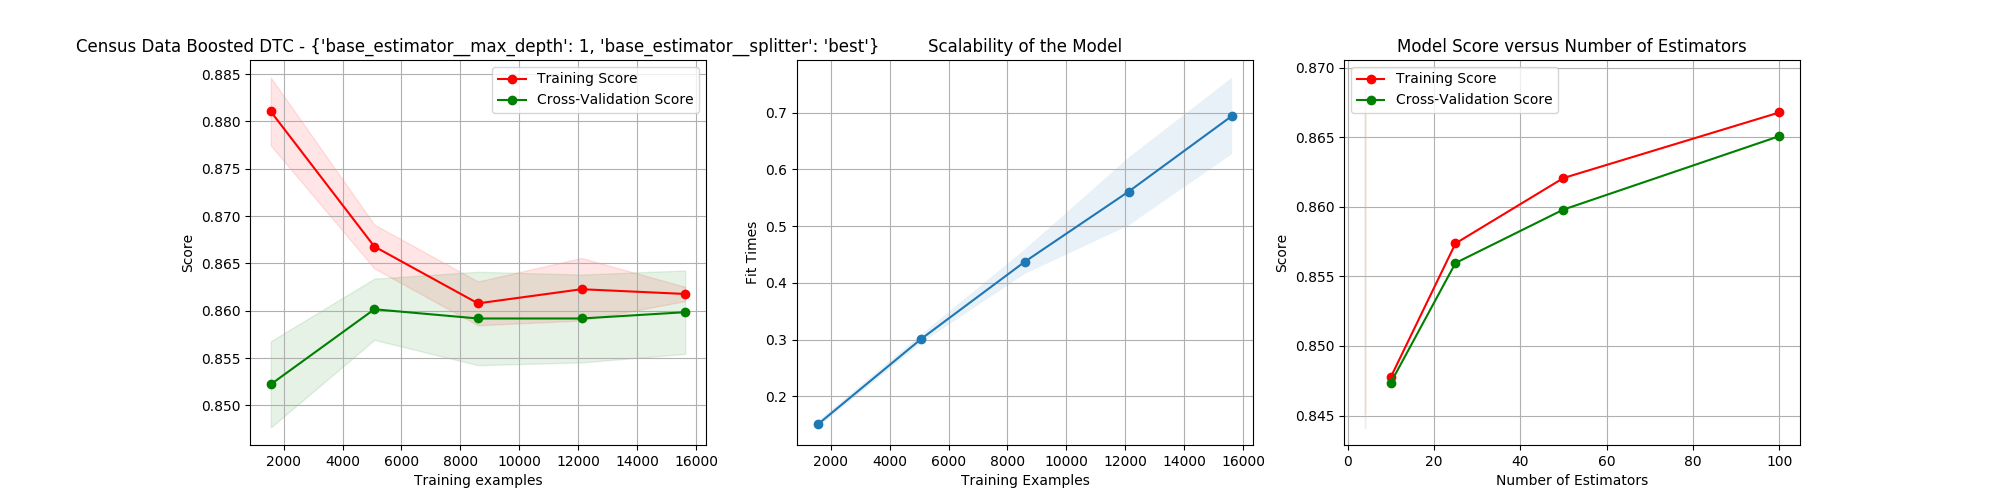
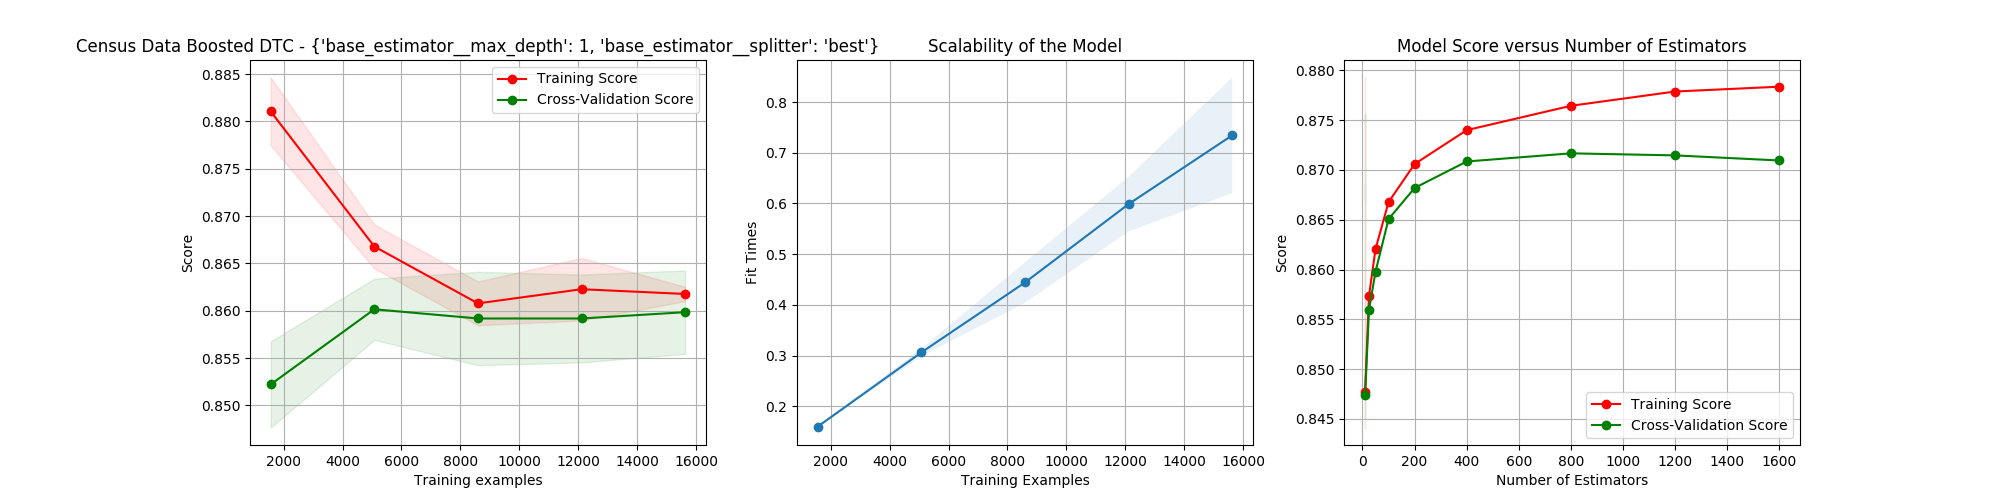
Redoing the adaboost with more estimators

diff --git a/Code/generate_analysis.py b/Code/generate_analysis.py
@@ -14,25 +14,25 @@ def main():
     x_census_data, y_census_data = process_data.process_census_data('./../Datasets/Census_Income')
     x_stock_data, y_stock_data = process_data.process_stock_data('./../Datasets/Stocks', ["2016", "2017"])
 
-    print("\n---------- Running Data on Decision Tree Learner -------------\n")
-    decision_tree_learning.run_decision_tree(x_census_data, y_census_data, "Census Data")
-    decision_tree_learning.run_decision_tree(x_stock_data, y_stock_data, "Stock Data")
+    # print("\n---------- Running Data on Decision Tree Learner -------------\n")
+    # decision_tree_learning.run_decision_tree(x_census_data, y_census_data, "Census Data")
+    # decision_tree_learning.run_decision_tree(x_stock_data, y_stock_data, "Stock Data")
 
-    print("\n---------- Running Data on Artificial Neural Network Learner -------------\n")
-    ann_learning.neural_network_learning(x_census_data, y_census_data, "Census Data")
-    ann_learning.neural_network_learning(x_stock_data, y_stock_data, "Stock Data")
+    # print("\n---------- Running Data on Artificial Neural Network Learner -------------\n")
+    # ann_learning.neural_network_learning(x_census_data, y_census_data, "Census Data")
+    # ann_learning.neural_network_learning(x_stock_data, y_stock_data, "Stock Data")
 
     print("\n---------- Running Data on Decision Tree Learner with Adaboost -------------\n")
     boosted_learning.run_boosted_learning(x_census_data, y_census_data, "Census Data")
     boosted_learning.run_boosted_learning(x_stock_data, y_stock_data, "Stock Data")
 
-    print("\n---------- Running Data on Support Vector Learner -------------\n")
-    support_vector_learning.run_svc_learning(x_census_data, y_census_data, "Census Data")
-    support_vector_learning.run_svc_learning(x_stock_data, y_stock_data, "Stock Data")
+    # print("\n---------- Running Data on Support Vector Learner -------------\n")
+    # support_vector_learning.run_svc_learning(x_census_data, y_census_data, "Census Data")
+    # support_vector_learning.run_svc_learning(x_stock_data, y_stock_data, "Stock Data")
 
-    print("\n---------- Running Data on KNN Learner -------------\n")
-    knn_learning.run_knn_learning(x_census_data, y_census_data, "Census Data")
-    knn_learning.run_knn_learning(x_stock_data, y_stock_data, "Stock Data")
+    # print("\n---------- Running Data on KNN Learner -------------\n")
+    # knn_learning.run_knn_learning(x_census_data, y_census_data, "Census Data")
+    # knn_learning.run_knn_learning(x_stock_data, y_stock_data, "Stock Data")
 
     print("Total Execution time: " + str(time.time() - timer) + "s")
 

diff --git a/Code/boosted_learning.py b/Code/boosted_learning.py
@@ -55,7 +55,7 @@ def run_boosted_learning(x_data, y_data, data_string=""):
 
     # plot the learning curve
     title = data_string + " Boosted DTC - " + str(grid_searcher.best_params_)
-    max_estimators_range = [10, 25, 50, 100]
+    max_estimators_range = [10, 25, 50, 100, 200, 400, 800, 1200, 1600]
     figure = evaluate_model_learning_complexity.plot_learning_curve(grid_searcher.best_estimator_, title,
                                                                     x_train, y_train, parameter="n_estimators",
                                                                     param_grid=max_estimators_range, param_string="Number of Estimators",
